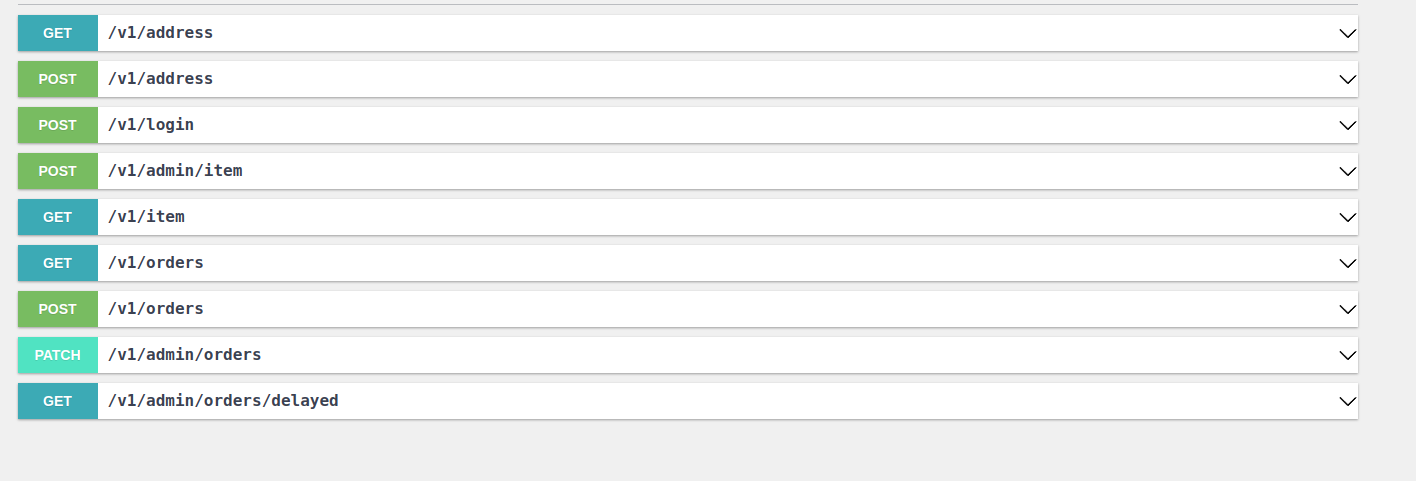
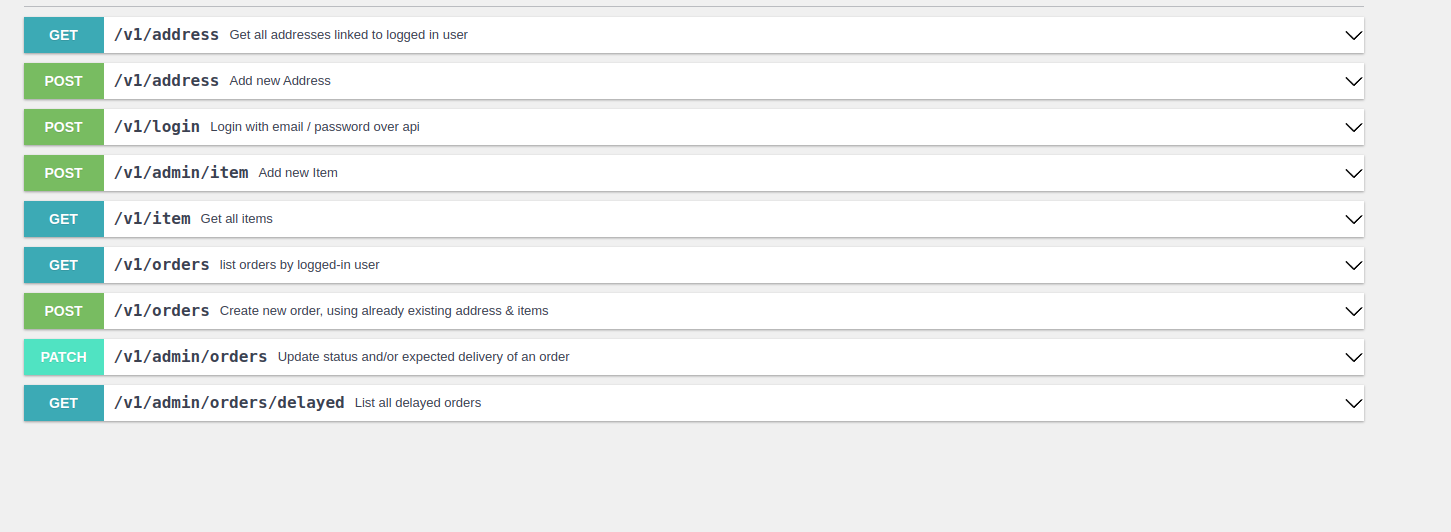
updated comments

Changed region(s): [[0.0, 0.0, 0.9633, 0.8732]]

diff --git a/src/Controller/ApiLoginController.php b/src/Controller/ApiLoginController.php
@@ -12,14 +12,12 @@ class ApiLoginController extends AbstractController
 {
 
     /**
+     * Login with email / password over api
      * @OA\Post(description="Login",
-     *   @OA\RequestBody(
-     *       required=true,
-     *       @OA\MediaType(
-     *           mediaType="application/json",
-     *           @OA\Schema(
-     *               type="object",
-     *               @OA\Property(  property="username", type="string",  example="alan@digial.co.uk" ),
+     *   @OA\RequestBody(  required=true,
+     *       @OA\MediaType(mediaType="application/json",
+     *           @OA\Schema( type="object",
+     *               @OA\Property(  property="email", type="string",  example="alan@digial.co.uk" ),
      *               @OA\Property( property="password", type="string", example="alanjeeves"
      *               ),
      *           )
@@ -39,12 +37,11 @@ class ApiLoginController extends AbstractController
             ], Response::HTTP_UNAUTHORIZED);
         }
 
-
-
+        // should generate token from auth server
         $token = 'TOK' . $user->getUserIdentifier();
 
        return $this->json([
-             'user'  => $user->getUserIdentifier(),
+             'email'  => $user->getUserIdentifier(),
            'token' => $token,
            'id' => $user->getId()
        ]);

diff --git a/src/Controller/OrderController.php b/src/Controller/OrderController.php
@@ -23,6 +23,7 @@ class OrderController extends BaseController
 {
 
     /**
+     * Create new order, using already existing address & items
      * @OA\Post(description="New Order",
      *   @OA\RequestBody(
      *       required=true,
@@ -90,7 +91,7 @@ class OrderController extends BaseController
 
 
     /**
-     *
+     * list orders by logged-in user
      * @OA\Parameter(name="order",in="query", required=false, @OA\Schema(type="number", example=4))
      * @OA\Parameter(name="status",in="query", required=false, @OA\Schema(type="string", example="delivered"))
      */
@@ -116,6 +117,7 @@ class OrderController extends BaseController
 
 
     /**
+     * Update status and/or expected delivery of an order
      * @OA\Patch(description="Update Order Status",
      *   @OA\RequestBody(
      *       required=true,
@@ -160,7 +162,9 @@ class OrderController extends BaseController
     }
 
 
-
+    /**
+     * List all delayed orders
+     */
     #[Route('/v1/admin/orders/delayed', name: 'delayed_orders', methods: 'GET')]
     public function delayedOrders(DelayedOrderRepository $delayedOrderRepository): Response
     {

diff --git a/tests/OrderControllerTest.php b/tests/OrderControllerTest.php
@@ -205,7 +205,7 @@ class OrderControllerTest extends WebTestCase
 
     public static function loginAsUser(): int
     {
-        $responseData = self::postJson( '/v1/login',  ['username'=>'alan@digial.co.uk', 'password' => 'alanjeeves']);
+        $responseData = self::postJson( '/v1/login',  ['email'=>'alan@digial.co.uk', 'password' => 'alanjeeves']);
         $userId = $responseData->id;
         self::assertNotNull($userId);
         return $userId;
@@ -213,7 +213,7 @@ class OrderControllerTest extends WebTestCase
 
     public static function loginAsAdmin(): int
     {
-        $responseData = self::postJson( '/v1/login',  ['username'=>'admin@orders.com', 'password' => 'adminadmin']);
+        $responseData = self::postJson( '/v1/login',  ['email'=>'admin@orders.com', 'password' => 'adminadmin']);
         $userId = $responseData->id;
         self::assertNotNull($userId);
         return $userId;

diff --git a/src/Controller/ItemController.php b/src/Controller/ItemController.php
@@ -15,7 +15,8 @@ class ItemController extends BaseController
 {
 
     /**
-     * @OA\Post(description="Login",
+     * Add new Item
+     * @OA\Post(description="Add Item",
      *   @OA\RequestBody(
      *       required=true,
      *       @OA\MediaType(
@@ -50,6 +51,9 @@ class ItemController extends BaseController
         return $this->json('', 422);
     }
 
+    /**
+     * Get all items
+     */
     #[Route('/v1/item', name: 'items', methods: 'GET')]
     public function items(ItemRepository $itemRepository): Response
     {

diff --git a/src/Controller/AddressController.php b/src/Controller/AddressController.php
@@ -15,6 +15,7 @@ class AddressController extends BaseController
 {
 
     /**
+     * Add new Address
      * @OA\Post(description="New Address",
      *   @OA\RequestBody(
      *       required=true,
@@ -53,6 +54,9 @@ class AddressController extends BaseController
     }
 
 
+    /**
+     * Get all addresses linked to logged in user
+     */
     #[Route('/v1/address', name: 'address_list', methods: 'GET')]
     public function addressList(AddressRepository $addressRepository): Response
     {
